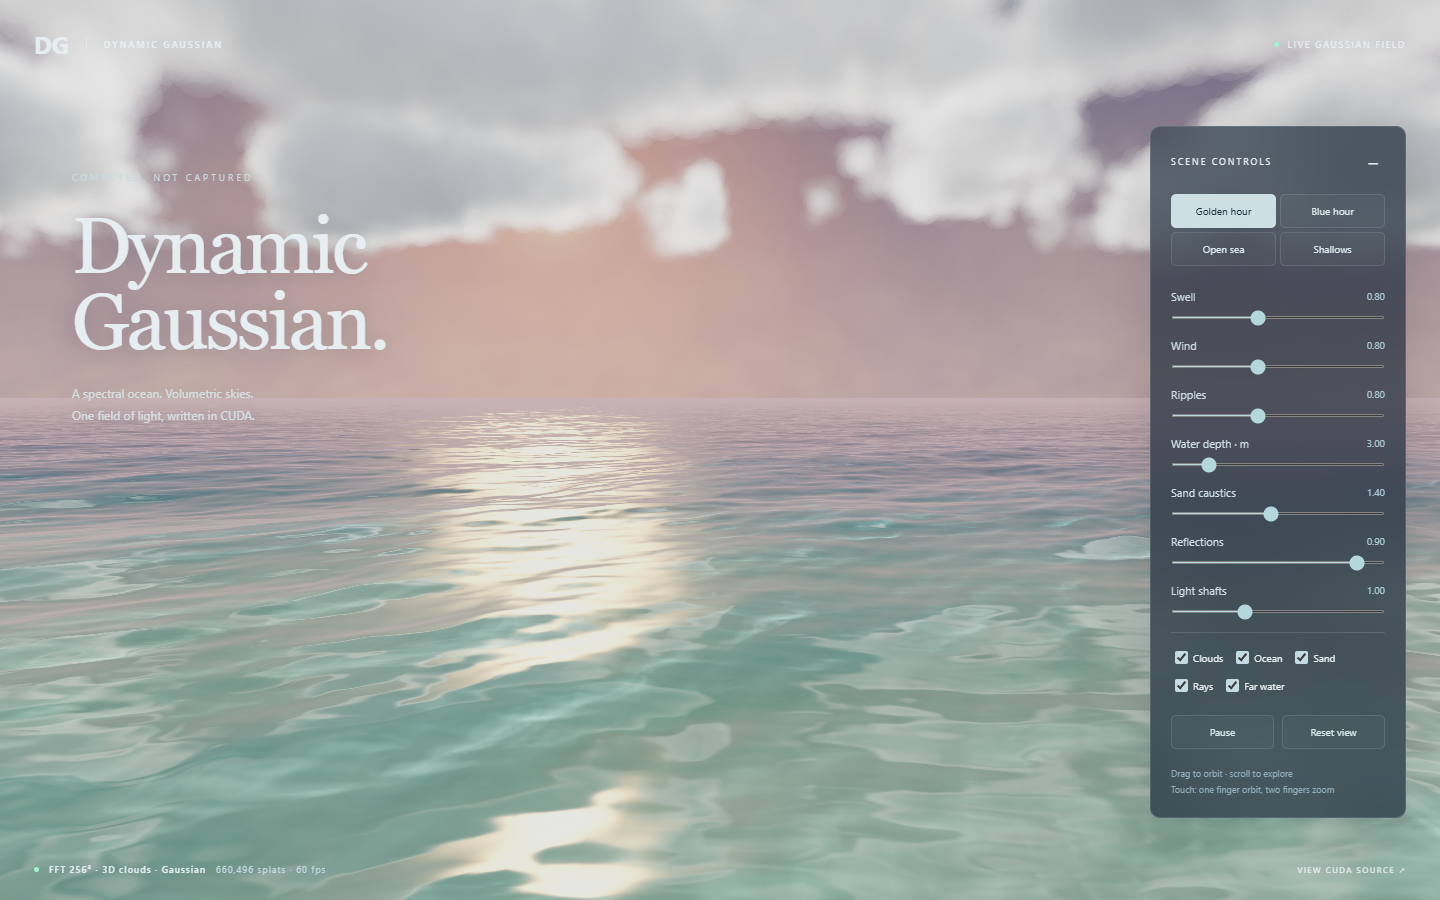
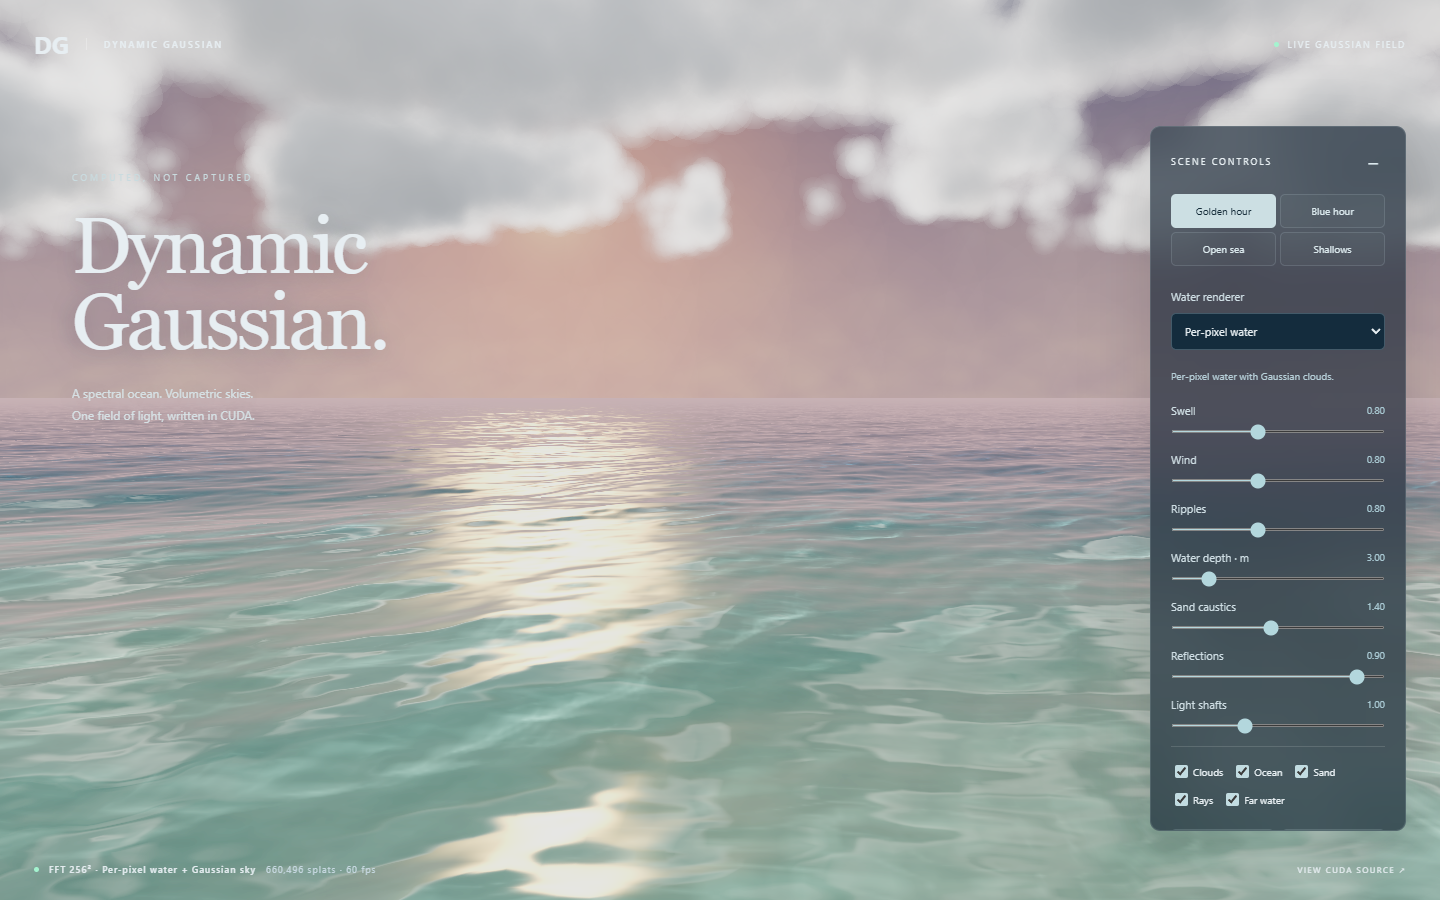
Add selectable Gaussian splat ocean and seabed renderer

Changed region(s): [[0.7812, 0.3111, 1.0, 0.9333], [0.0938, 0.9644, 0.1875, 0.9956]]

diff --git a/app.js b/app.js
@@ -6,7 +6,7 @@ import { OceanAtmosphere } from './simulation.js';
 import { CudaWaterRenderer } from './water-renderer.js';
 
 const $ = id => document.getElementById(id);
-const state = { swell: .8, wind: .8, ripples: .8, depth: 3, causticStrength: 1.4, reflections: .9, rays: 1, warmth: 1, clouds: true, ocean: true, sand: true, shafts: true, far: true, paused: false };
+const state = { renderer: 'pixels', swell: .8, wind: .8, ripples: .8, depth: 3, causticStrength: 1.4, reflections: .9, rays: 1, warmth: 1, clouds: true, ocean: true, sand: true, shafts: true, far: true, paused: false };
 const api = window.gaussianDemo = { state, ready: false, frames: 0, time: 0, error: null };
 for (const key of ['swell', 'wind', 'ripples', 'depth', 'causticStrength', 'reflections', 'rays']) $(key).addEventListener('input', () => { state[key] = Number($(key).value); $(`${key}-value`).value = state[key].toFixed(2); });
 for (const key of ['clouds', 'ocean', 'sand', 'shafts','far']) $(key).addEventListener('change', () => state[key] = $(key).checked);
@@ -39,8 +39,8 @@ try {
   const mobile = innerWidth < 700;
   const cx=mobile?48:128,cy=mobile?24:40,cz=cx,clouds=cx*cy*cz;
   const rayCount=mobile?1536:3072;
-  const [sceneSource,volumeSource,fftSource,causticSource,waterSource]=await Promise.all(['scene.cu','volume.cu','ocean-fft.cu','caustics.cu','water.cu'].map(async file=>{const r=await fetch(file);if(!r.ok)throw Error(`Cannot load ${file}`);return r.text();}));
-  const source=volumeSource+'\n'+sceneSource+'\n'+causticSource+'\n'+waterSource;
+  const [sceneSource,volumeSource,fftSource,causticSource,waterSource,splatSource]=await Promise.all(['scene.cu','volume.cu','ocean-fft.cu','caustics.cu','water.cu','surface-splats.cu'].map(async file=>{const r=await fetch(file);if(!r.ok)throw Error(`Cannot load ${file}`);return r.text();}));
+  const source=volumeSource+'\n'+sceneSource+'\n'+causticSource+'\n'+waterSource+'\n'+splatSource;
   const simulation=api.simulation=await OceanAtmosphere.create(runtime,{fftSource,volumeSource,sceneSource:source,n:mobile?128:256});
   const layers = [
     { name: 'clouds', entry: 'cloud_splats', count: clouds, scalars: ({time,camera:c}) => ({count:clouds,cx,cy,cz,time,wind:state.wind,warmth:state.warmth,cameraX:c.x,cameraY:c.y,cameraZ:c.z,enabled:+state.clouds}) },
@@ -48,12 +48,39 @@ try {
     { name: 'rays', entry: 'ray_splats', count: rayCount, scalars: ({time}) => ({count:rayCount,time,strength:state.rays,enabled:+state.shafts,cloudEnabled:+state.clouds}) },
     { name: 'sun', entry: 'sun_splats', count: 16, scalars: () => ({count:16}) }
   ];
-  const pipeline = api.pipeline = await CudaSplatPipeline.create({ renderer, runtime, source, layers, simulation });
-  scene.add(pipeline.mesh);
+  const pixelPipeline = await CudaSplatPipeline.create({ renderer, runtime, source, layers, simulation });
+  let pipeline=api.pipeline=pixelPipeline, splatPipeline=null, switchPending=null;
+  scene.add(pixelPipeline.mesh);
   const water=api.water=await CudaWaterRenderer.create(renderer,runtime,simulation,source);scene.add(water.mesh);
-  api.renderAt = time => { api.time = time; controls.update(); pipeline.update({time,wind:state.wind,swell:state.swell,ripples:state.ripples,depth:state.depth,camera:camera.position}, camera); water.update(time,camera,state);renderer.render(scene,camera); api.frames++; };
+  const updateModeLabel=()=>{
+    $('renderer-mode').value=state.renderer;
+    $('renderer-note').textContent=state.renderer==='splats'?'Ocean, reflections, sand and caustics rendered with Gaussian splats. Softer surface detail.':'Per-pixel water with Gaussian clouds.';
+    $('status').textContent=`FFT ${simulation.n}² · ${state.renderer==='splats'?'All Gaussian splats':'Per-pixel water + Gaussian sky'}`;
+    $('stats').textContent=`${pipeline.count.toLocaleString()} splats`;
+  };
+  api.setRenderer=async mode=>{
+    if(!['pixels','splats'].includes(mode))throw Error('Unknown renderer mode');
+    if(switchPending)await switchPending;
+    if(mode==='splats'&&!splatPipeline){
+      $('renderer-mode').disabled=true;$('renderer-note').textContent='Preparing Gaussian water…';
+      const nx=mobile?192:512,nz=mobile?160:384,farNx=mobile?256:1024,farNz=mobile?64:128;
+      const surface=(name,seabed,farfield,nx,nz)=>({name,entry:'surface_splats',count:nx*nz,
+        scalars:({time,camera:c})=>({nx,nz,farfield,seabed,n:simulation.n,length:simulation.length,time,swell:state.swell,ripples:state.ripples,warmth:state.warmth,reflections:state.reflections,cameraX:c.x,cameraY:c.y,cameraZ:c.z,depth:state.depth,causticStrength:state.causticStrength,resolution:simulation.resolution,enabled:+((seabed?state.sand:state.ocean)&&(!farfield||state.far)),cloudEnabled:+state.clouds,sandEnabled:+state.sand})});
+      const fullLayers=[...layers.map(layer=>({...layer})),surface('ocean',0,0,nx,nz),surface('far-ocean',0,1,farNx,farNz),surface('sand',1,0,nx,nz),surface('far-sand',1,1,farNx,farNz)];
+      switchPending=CudaSplatPipeline.create({renderer,runtime,source,layers:fullLayers,simulation});
+      try{splatPipeline=await switchPending;splatPipeline.mesh.visible=false;scene.add(splatPipeline.mesh);}
+      finally{switchPending=null;$('renderer-mode').disabled=false;}
+    }
+    pipeline=api.pipeline=mode==='splats'?splatPipeline:pixelPipeline;
+    pixelPipeline.mesh.visible=mode==='pixels';if(splatPipeline)splatPipeline.mesh.visible=mode==='splats';
+    water.mesh.visible=mode==='pixels';state.renderer=mode;updateModeLabel();
+    const url=new URL(location.href);if(mode==='splats')url.searchParams.set('renderer','splats');else url.searchParams.delete('renderer');history.replaceState(null,'',url);
+  };
+  $('renderer-mode').addEventListener('change',()=>api.setRenderer($('renderer-mode').value).catch(fail));
+  api.renderAt = time => { api.time = time; controls.update(); pipeline.update({time,wind:state.wind,swell:state.swell,ripples:state.ripples,depth:state.depth,camera:camera.position}, camera); if(state.renderer==='pixels')water.update(time,camera,state);renderer.render(scene,camera); api.frames++; };
+  if(new URL(location.href).searchParams.get('renderer')==='splats')await api.setRenderer('splats');
   api.renderAt(0); await runtime.idle();
-  $('loading').hidden = true; $('status').textContent = `FFT ${simulation.n}² · 3D clouds · Gaussian`; api.ready = true;
+  $('loading').hidden = true;updateModeLabel();api.ready = true;
   let last = performance.now(), sample = last, sampleFrames = 0;
   renderer.setAnimationLoop(now => {
     try {
@@ -64,5 +91,5 @@ try {
   });
   addEventListener('resize', () => { camera.aspect=innerWidth/innerHeight;camera.updateProjectionMatrix();renderer.setSize(innerWidth,innerHeight); });
   if (mobile) $('collapse').click();
-  api.dispose = async () => { renderer.setAnimationLoop(null); await runtime.idle(); controls.dispose();water.dispose();pipeline.dispose();simulation.dispose();renderer.dispose();runtime.dispose();api.ready=false; };
+  api.dispose = async () => { renderer.setAnimationLoop(null); if(switchPending)await switchPending; await runtime.idle(); controls.dispose();water.dispose();pixelPipeline.dispose();splatPipeline?.dispose();simulation.dispose();renderer.dispose();runtime.dispose();api.ready=false; };
 } catch (error) { fail(error); }

diff --git a/style.css b/style.css
@@ -1,2 +1,4 @@
 
 :root{color-scheme:dark;font-family:Inter,Segoe UI,Arial,sans-serif;color:#e7eef2;background:#17293c;font-synthesis:none}*{box-sizing:border-box}body{margin:0;overflow:hidden}#viewport,canvas{position:fixed;inset:0;width:100%;height:100%;touch-action:none}header{position:fixed;top:28px;left:34px;right:34px;display:flex;align-items:center;justify-content:space-between;pointer-events:none}a{color:inherit;text-decoration:none;pointer-events:auto}header a{font-size:24px;font-weight:750;display:flex;align-items:center;gap:17px}header a span{font-size:9px;letter-spacing:2px;font-weight:500;border-left:1px solid #ffffff40;padding-left:17px}.badge{font-size:9px;letter-spacing:1.7px;display:flex;align-items:center;gap:9px}.badge i,.status-dot{width:5px;height:5px;background:#a4f3cf;border-radius:50%;display:inline-block}.intro{position:fixed;left:5vw;top:19vh;pointer-events:none;text-shadow:0 2px 25px #10213640}.eyebrow{font-size:9px;letter-spacing:3px;color:#c9dbdf}h1{font-family:Georgia,serif;font-weight:400;font-size:clamp(42px,5.5vw,86px);line-height:.96;letter-spacing:-3px;margin:24px 0}p{font-size:12px;line-height:1.8;color:#d6e1e5}#controls{position:fixed;right:34px;top:126px;width:256px;max-height:calc(100dvh - 195px);overflow:auto;padding:20px;background:#0b1c2b9e;border:1px solid #c6dee225;backdrop-filter:blur(24px);border-radius:10px;box-shadow:0 12px 70px #0002}.panel-head{display:flex;justify-content:space-between;align-items:center;font-size:9px;letter-spacing:2px}.panel-head button{border:0;font-size:20px;padding:0 5px;background:transparent}.presets{display:grid;grid-template-columns:1fr 1fr;gap:4px;margin:20px 0 23px}button{border:1px solid #d0e4ec26;color:#dbe9ed;background:#e1faff06;padding:9px 8px;border-radius:5px;font:inherit;font-size:10px;cursor:pointer}button:hover{background:#ffffff18}button.selected{background:#ccdfe3;color:#152c39;border-color:transparent}#settings>label{display:block;font-size:11px;margin:19px 0;color:#d0dfe5}output{float:right;font-size:10px;font-variant-numeric:tabular-nums;color:#a9c9d3}input[type=range]{width:100%;display:block;margin:12px 0 0;accent-color:#b3d7dd;height:3px;cursor:pointer}input[type=checkbox]{accent-color:#c2dce1}.layers{display:flex;flex-wrap:wrap;gap:9px;border-top:1px solid #fff2;padding-top:15px;font-size:10px}.layers label{display:flex;align-items:center;gap:2px}.actions{display:flex;gap:8px;margin-top:20px}.actions button{flex:1}.note{font-size:9px;color:#91aebb;margin:16px 0 0}footer{position:fixed;bottom:25px;left:34px;right:34px;display:flex;align-items:center;justify-content:space-between;gap:10px;font-size:9px;letter-spacing:1px}footer>div{display:flex;align-items:center;gap:10px}footer strong{font-weight:500}#stats{color:#c5d7df;font-variant-numeric:tabular-nums}footer a{font-size:8px;letter-spacing:1.5px}#loading{position:fixed;inset:0;background:#102135;display:flex;flex-direction:column;align-items:center;justify-content:center;z-index:5}#loading[hidden]{display:none}.loader{height:34px;width:34px;border-radius:50%;border:1px solid #abc7d328;border-top-color:#d8b58a;animation:spin 1.4s linear infinite}@keyframes spin{to{transform:rotate(360deg)}}#loading p{max-width:80vw;text-align:center;white-space:pre-wrap}button:focus-visible,a:focus-visible,input:focus-visible{outline:2px solid #e5c999;outline-offset:5px}@media(max-width:700px){header{top:20px;left:20px;right:20px}header a span{font-size:7px;letter-spacing:1px}.badge{display:none}.intro{left:24px;top:110px}.intro h1{font-size:48px;margin:18px 0;letter-spacing:-2px}.intro p{font-size:10px}.eyebrow{font-size:7px;letter-spacing:2px}#controls{top:auto;bottom:62px;right:16px;width:215px;max-height:calc(100dvh - 160px);padding:14px;background:#0b1c2bce}#controls.closed{width:180px}.presets{margin:14px 0}#settings>label{margin:14px 0}.note{display:none}footer{left:20px;right:20px;bottom:18px;font-size:8px}footer>div{flex-wrap:wrap;gap:6px;max-width:80%}footer a{display:none}}
+
+#renderer-mode{display:block;width:100%;margin-top:9px;padding:9px;border:1px solid #d0e4ec40;border-radius:5px;background:#142c3d;color:#e7eef2;font:inherit}#renderer-mode:focus-visible{outline:2px solid #e5c999;outline-offset:3px}.renderer-note{font-size:10px;line-height:1.5;margin:0 0 16px;color:#b6cfd8}

diff --git a/index.html b/index.html
@@ -7,6 +7,8 @@
 <section class="intro"><div class="eyebrow">COMPUTED, NOT CAPTURED</div><h1>Dynamic<br>Gaussian.</h1><p>A spectral ocean. Volumetric skies.<br>One field of light, written in CUDA.</p></section>
 <aside id="controls"><div class="panel-head"><span>SCENE CONTROLS</span><button id="collapse" aria-label="Collapse scene controls" aria-expanded="true">−</button></div>
 <div id="settings"><div class="presets"><button data-preset="golden" class="selected">Golden hour</button><button data-preset="blue">Blue hour</button><button data-preset="rough">Open sea</button><button data-preset="shallow">Shallows</button></div>
+<label for="renderer-mode">Water renderer<select id="renderer-mode"><option value="pixels">Per-pixel water</option><option value="splats">Gaussian splats</option></select></label>
+<p id="renderer-note" class="renderer-note">Per-pixel water with Gaussian clouds.</p>
 <label>Swell <output id="swell-value">0.80</output><input id="swell" type="range" min="0" max="2" step="0.01" value="0.8"></label>
 <label>Wind <output id="wind-value">0.80</output><input id="wind" type="range" min="0" max="2" step="0.01" value="0.8"></label>
 <label>Ripples <output id="ripples-value">0.80</output><input id="ripples" type="range" min="0" max="2" step="0.01" value="0.8"></label>
